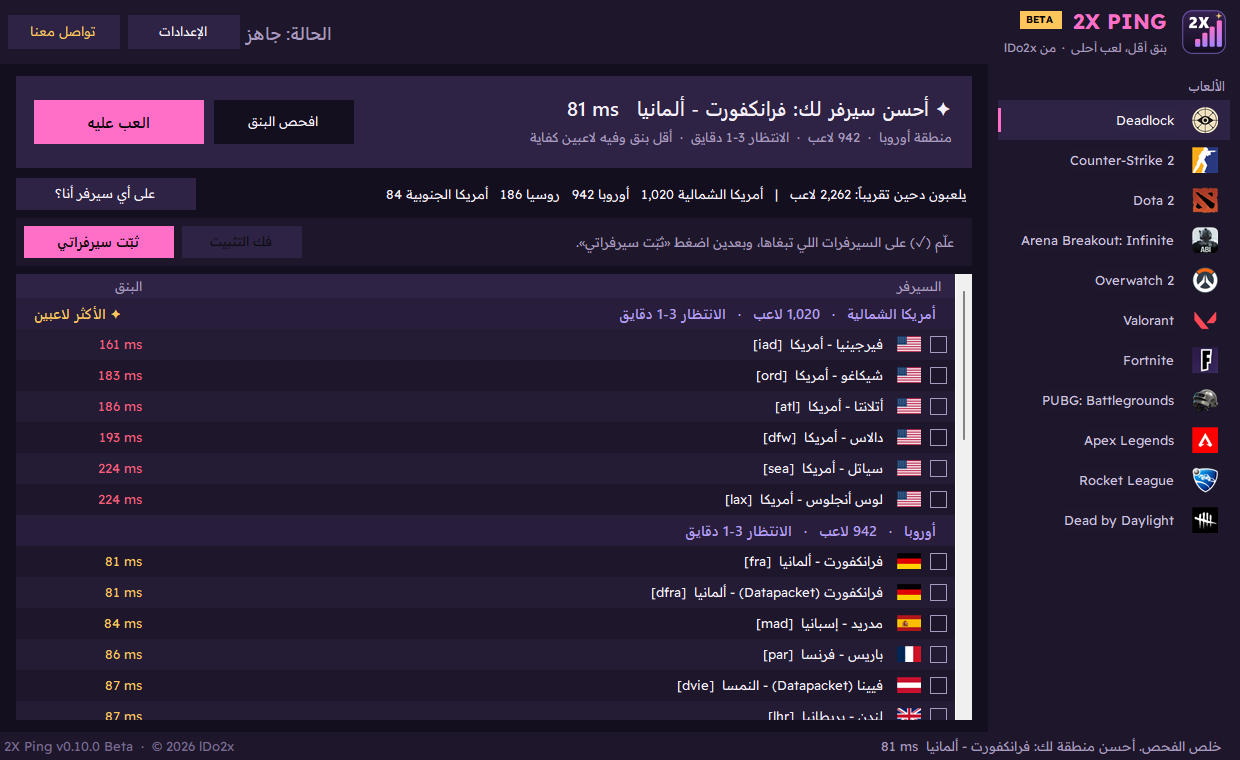
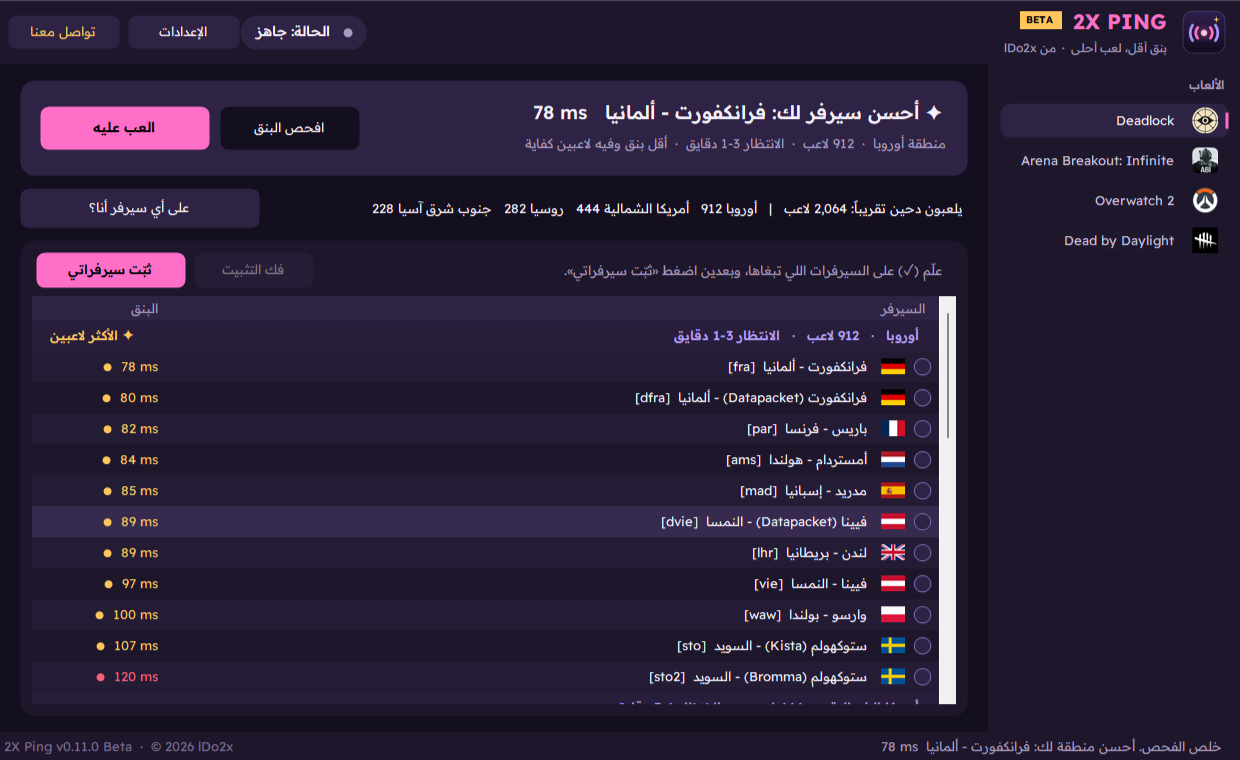
Show only the released games in the screenshots and social preview; database: issue index and flood guard
- README screenshots and the social preview show v0.11 with Deadlock, Overwatch 2, Dead by Daylight and Arena Breakout only
- supabase-setup.sql: index for the Problems list, at most 60 events a minute per install, larger data cap

diff --git a/docs/social/social-preview.html b/docs/social/social-preview.html
@@ -30,8 +30,9 @@
           padding: 3px 12px; border-radius: 6px; letter-spacing: 1px; }
   .ar { direction: rtl; text-align: left; font-weight: 700; font-size: 50px; margin-top: 44px; line-height: 1.2; }
   .en { font-size: 25px; color: var(--dim); margin-top: 8px; }
-  .games { display: flex; gap: 12px; margin-top: 40px; }
-  .games img { width: 44px; height: 44px; border-radius: 10px; background: #2a2140; padding: 4px; }
+  .games { display: flex; gap: 14px; margin-top: 40px; }
+  .games img { width: 56px; height: 56px; border-radius: 12px; background: #2a2140; padding: 5px;
+               box-shadow: 0 0 0 1px rgba(255,255,255,.06), 0 8px 20px rgba(0,0,0,.35); }
   .foot { margin-top: 34px; font-size: 19px; color: var(--dim); }
   .foot b { color: var(--text); font-weight: 600; }
 
@@ -64,10 +65,9 @@
     <div class="ar" dir="rtl">بنق أقل، لعب أحلى</div>
     <div class="en">Lower ping, better games.</div>
     <div class="games">
-      <img src="../../assets/games/deadlock.png" alt=""><img src="../../assets/games/cs2.png" alt="">
-      <img src="../../assets/games/dota2.png" alt=""><img src="../../assets/games/overwatch.png" alt="">
-      <img src="../../assets/games/valorant.png" alt=""><img src="../../assets/games/abi.png" alt="">
-      <img src="../../assets/games/fortnite.png" alt=""><img src="../../assets/games/apex.png" alt="">
+      <!-- only the games released in the public version -->
+      <img src="../../assets/games/deadlock.png" alt=""><img src="../../assets/games/overwatch.png" alt="">
+      <img src="../../assets/games/dbd.png" alt=""><img src="../../assets/games/abi.png" alt="">
     </div>
     <div class="foot"><b>Free</b> · Windows 10/11 · Arabic &amp; English · by <b>lDo2x</b></div>
   </div>
